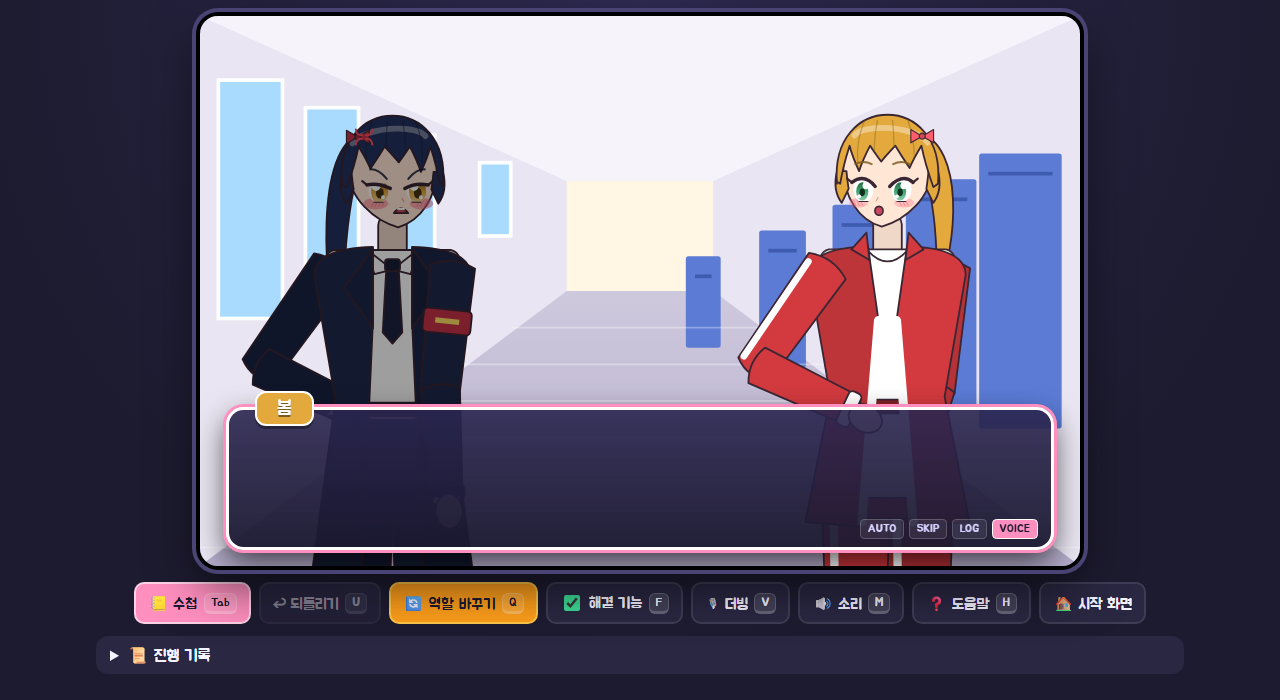
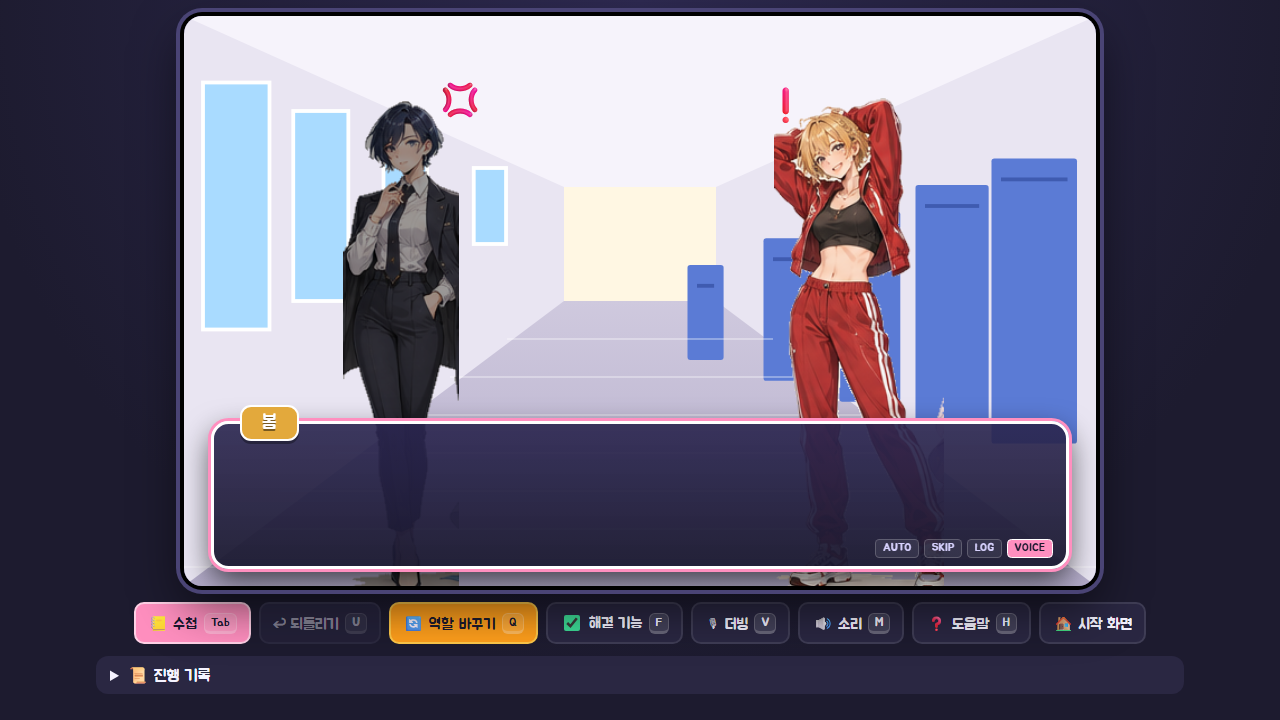
캐릭터를 시트 그림으로 교체
- tools/cut_sprites.py: 캐릭터 시트에서 10명을 잘라 배경 제거·조각 정리·얼굴/발 위치 기록
- web/static/art/: 캐릭터 그림 10장 + sprites.json
- 그림이 있으면 그림으로, 없으면 코드 그림으로 그림 (지도·장면·초상화 모두)
- 미연시 장면: 전신 표시, 감정 아이콘(💢❗♪💧💦💗), 말할 때 들썩임
- 시작·엔딩의 큰 초상화는 상반신까지 넓게 잘라 선명하게

Changed region(s): [[0.0938, 0.0, 0.9062, 0.9], [0.0938, 0.93, 0.1562, 0.96]]

diff --git a/web/static/anime.js b/web/static/anime.js
@@ -150,7 +150,7 @@ const LEGWEAR = {
 //   o.blink : 눈 감는 순간인지,  o.talk : 입 벌림 (립싱크),  o.sway : 서 있을 때 머리 흔들림
 //   o.ol    : 외곽선 두께
 // =============================================================
-function drawFigure(c, L, o = {}) {
+function drawFigureCode(c, L, o = {}) {
   const ol = o.ol ?? 1;
   const M = bodyMetrics(L);
   const swing = o.moving ? Math.sin(o.walk || 0) : 0;
@@ -822,7 +822,7 @@ function drawMouth(c, x, y, expr, ol, talk = 0) {
 // 초상화 : 캔버스 하나에 캐릭터의 얼굴과 어깨를 크게 그린다
 // extra : 립싱크(talk)·눈 깜빡임(blink) 같은 추가 옵션
 // =============================================================
-function drawPortrait(canvas, look, expr = "normal", extra = {}) {
+function drawPortraitCode(canvas, look, expr = "normal", extra = {}) {
   const dpr = Math.min(2, window.devicePixelRatio || 1);
   const size = canvas.clientWidth || 160;
   const px = Math.round(size * dpr);
@@ -834,4 +834,62 @@ function drawPortrait(canvas, look, expr = "normal", extra = {}) {
   const S = canvas.width / 30;                        // 가로 30칸 분량 (얼굴 + 어깨)
   c.setTransform(S, 0, 0, S, canvas.width / 2, canvas.width * 0.5 - (M.headCY + 3) * S);
   drawFigure(c, look, { expr, ol: (1.3 * dpr) / S, ...extra });
+}
+
+
+// =============================================================
+// 그림 파일 캐릭터 (static/art/*.png)
+// -------------------------------------------------------------
+// tools/cut_sprites.py 로 캐릭터 시트에서 잘라 낸 그림이 있으면 그 그림으로 그린다.
+// 그림을 못 불러오면 위의 코드 그림(drawFigureCode)으로 대신 그린다.
+// =============================================================
+const SPRITES = {};                                   // 캐릭터 이름 → { img: 그림, m: 크기 정보 }
+for (const k of Object.keys(LOOKS)) LOOKS[k].key = k;
+
+// 모든 그림을 불러올 때까지 기다리는 약속(Promise). game.js 가 시작할 때 기다린다
+const spritesReady = (async () => {
+  try {
+    const meta = await (await fetch("static/art/sprites.json")).json();
+    await Promise.all(Object.entries(meta).map(([k, m]) => new Promise((resolve) => {
+      const img = new Image();
+      img.onload = () => { SPRITES[k] = { img, m }; resolve(); };
+      img.onerror = resolve;                          // 실패해도 멈추지 않고 코드 그림 사용
+      img.src = `static/art/${k}.png`;
+    })));
+  } catch (e) { /* sprites.json 이 없으면 코드 그림만 사용 */ }
+})();
+
+const hasSprite = (L) => !!(L && L.key && SPRITES[L.key]);
+
+// 발 위치 기준으로 얼굴이 어디쯤 있는지 (몸 좌표). 감정 아이콘 위치에 쓴다
+function spriteHead(L) {
+  const { m } = SPRITES[L.key];
+  const k = L.h / m.h;
+  return { x: (m.headX - m.footX) * k, y: -(m.h - m.headY) * k, r: m.headR * k };
+}
+
+function drawFigure(c, L, o = {}) {
+  if (!hasSprite(L)) return drawFigureCode(c, L, o);
+  const { img, m } = SPRITES[L.key];
+  const k = L.h / m.h;                                // 그림 1픽셀 = 몸 좌표 k 칸
+  c.save();
+  if (o.moving) c.rotate(Math.sin(o.walk || 0) * 0.05);   // 걸을 때 좌우로 뒤뚱뒤뚱
+  c.imageSmoothingQuality = "high";
+  c.drawImage(img, -m.footX * k, -m.h * k, m.w * k, m.h * k);
+  c.restore();
+}
+
+function drawPortrait(canvas, look, expr = "normal", extra = {}) {
+  if (!hasSprite(look)) return drawPortraitCode(canvas, look, expr, extra);
+  const dpr = Math.min(2, window.devicePixelRatio || 1);
+  const px = Math.round((canvas.clientWidth || 160) * dpr);
+  if (canvas.width !== px) { canvas.width = px; canvas.height = px; }
+  const c = canvas.getContext("2d");
+  c.setTransform(1, 0, 0, 1, 0, 0);
+  c.clearRect(0, 0, px, px);
+  const { img, m } = SPRITES[look.key];
+  // 얼굴 + 어깨가 들어오는 정사각형 (원본 픽셀). zoom 을 키우면 상반신까지 넓게 → 큰 칸에서도 덜 깨짐
+  const size = m.headR * 3.4 * (extra.zoom || 1);
+  c.imageSmoothingQuality = "high";
+  c.drawImage(img, m.headX - size / 2, m.headY - m.headR * 1.4, size, size, 0, 0, px, px);
 }

diff --git a/web/static/game.js b/web/static/game.js
@@ -411,6 +411,9 @@ function updateVn(dt) {
   }
 }
 
+// 감정 아이콘 (그림 캐릭터용)
+const MANPU = { angry: "💢", surprised: "❗", happy: "♪", sad: "💧", tired: "💦", blush: "💗" };
+
 // 감정에 따른 몸 동작 : t = 표정이 바뀐 뒤 흐른 시간(초). 돌려주는 값 = 위치 이동과 기울기
 function emotionMotion(expr, t) {
   const fade = (len) => Math.max(0, 1 - t / len);
@@ -449,7 +452,10 @@ function drawVn() {
   const n = vn.stage.length;
   vn.stage.forEach((st, i) => {
     const L = LOOKS[st.key];
-    const S = 8.2;                                    // 모두 같은 배율 → 키 차이가 그대로 보임 (무릎 아래는 화면 밖)
+    const sprite = hasSprite(L);
+    // 그림 캐릭터는 전신이 보이게, 코드 그림은 허리 위로 크게 (모두 같은 배율 → 키 차이가 그대로 보임)
+    const S = sprite ? 5.5 : 8.2;
+    const feetY = sprite ? 612 : 880;
     const targetX = n === 1 ? 480 : i === 0 ? 300 : 660;
     // 처음 등장할 때는 옆에서 미끄러져 들어온다
     st.x = st.x === null ? targetX + (targetX < 480 ? -90 : 90) : st.x + (targetX - st.x) * 0.15;
@@ -464,12 +470,27 @@ function drawVn() {
     vctx.save();
     vctx.globalAlpha = st.alpha;
     if (!speaking && vn.speaker !== "narr") vctx.filter = "brightness(0.62)";   // 말하지 않는 사람은 어둡게
-    vctx.translate(st.x + m.x, 880 + (speaking ? 0 : 8) + m.y);
+    const talkBob = sprite && mouthOn ? -Math.abs(Math.sin(clockTime * 11)) * 3 : 0;   // 그림 캐릭터는 말할 때 살짝 들썩
+    vctx.translate(st.x + m.x, feetY + (speaking ? 0 : 8) + m.y + talkBob);
     vctx.rotate(m.rot);
     vctx.scale(S * (n === 2 && i === 1 ? -1 : 1), S * breath);              // 오른쪽 사람은 왼쪽을 보게
     drawFigure(vctx, L, { expr: st.expr, blink: st.blinkT < 0, ol: 0.24, talk,
                           sway: Math.sin(clockTime * 1.7 + i * 2) * 0.9 });
     vctx.restore();
+    // 그림 캐릭터는 표정이 바뀌지 않으니, 머리 옆에 감정 아이콘(만화 기호)을 띄운다 (화면 좌표에서 그려야 안 뒤집힘)
+    const icon = sprite && MANPU[st.expr];
+    if (icon) {
+      const hd = spriteHead(L);
+      const flip = n === 2 && i === 1 ? -1 : 1;
+      const pop = 1 + Math.max(0, 0.25 - (st.motionT || 0)) * 3;
+      vctx.save();
+      vctx.globalAlpha = st.alpha;
+      vctx.font = `${Math.round(38 * pop)}px sans-serif`;
+      vctx.textAlign = "center";
+      vctx.fillText(icon, st.x + m.x + flip * (hd.x + hd.r * 1.6) * S,
+                    feetY + m.y + (hd.y - hd.r * 0.8) * S + Math.sin(clockTime * 4) * 3);
+      vctx.restore();
+    }
   });
 }
 
@@ -1438,8 +1459,8 @@ function flash() { const f = $("flash"); f.classList.remove("show"); void f.offs
 
 function drawTitleArt() {
   document.querySelectorAll("#title-heroines canvas").forEach((cv) => drawPortrait(cv, LOOKS[cv.dataset.key], "happy"));
-  drawPortrait($("tp-student"), LOOKS.student, "normal");
-  drawPortrait($("tp-future"), LOOKS.future, "happy");
+  drawPortrait($("tp-student"), LOOKS.student, "normal", { zoom: 2.6 });
+  drawPortrait($("tp-future"), LOOKS.future, "happy", { zoom: 2.6 });
 }
 function buildTitle() {
   const box = $("title-heroines");
@@ -1532,7 +1553,7 @@ function showEnding(d, title) {
     .map((h) => `<span style="--c:${LOOKS[h].hairColor}">${STORY.heroines[h].short} 💗${d.aff[h]}</span>`).join("");
   $("ending-collect").textContent = endingSummary();
   $("ending").classList.remove("hidden");
-  drawPortrait($("ep-face"), LOOKS[hero], "happy");
+  drawPortrait($("ep-face"), LOOKS[hero], "happy", { zoom: 2 });
   confetti();
   SFX.end();
 }
@@ -1591,6 +1612,7 @@ function loop(now) {
     $("title-loading").textContent = "대본 파일을 불러오지 못했어요.";
     return;
   }
+  await spritesReady;                                 // 캐릭터 그림 파일을 다 불러올 때까지 기다림
   if (window.LOCAL_API) window.LOCAL_API.init(STORY.heroines);
   await api("/api/state");
   if (!server) return;

diff --git a/tools/cut_sprites.py b/tools/cut_sprites.py
@@ -1,0 +1,172 @@
+# =============================================================
+# cut_sprites.py - 캐릭터 시트 그림을 한 명씩 잘라 게임용 그림(png)으로 만든다
+# -------------------------------------------------------------
+# 실행 :  python tools/cut_sprites.py <시트 그림 경로>
+# 결과 :  web/static/art/<캐릭터>.png  (배경이 투명한 그림)
+#         web/static/art/sprites.json  (발 위치·얼굴 위치 정보 → 게임이 크기를 맞출 때 사용)
+#
+# 하는 일
+#   1. 그림 가장자리에서부터 "배경색과 비슷한 색"을 따라가며 투명하게 만든다 (flood fill)
+#      → 캐릭터 안쪽의 흰 옷은 테두리 선에 막혀서 지워지지 않는다
+#   2. 캐릭터 번호 칸마다 잘라 낸다
+#   3. 칸 가운데를 지나지 않는 조각(옆 캐릭터의 소매 등)은 지운다
+# 필요한 것 : Pillow  (python -m pip install pillow)
+# =============================================================
+
+import json
+import sys
+from collections import deque
+from pathlib import Path
+
+from PIL import Image
+
+ROOT = Path(__file__).resolve().parent.parent
+OUT = ROOT / "web" / "static" / "art"
+
+# 시트에서 각 번호 캐릭터의 가운데 x 좌표 (그림 아래 번호 위치)
+TOP_X = [85, 235, 382, 530, 680, 832, 985, 1140, 1290, 1440]      # 01 ~ 10
+BOTTOM_X = [85, 233, 382, 530, 678, 843, 995, 1145, 1283, 1437]   # 11 ~ 20
+TOP_Y, BOTTOM_Y = (0, 458), (490, 972)                            # 번호 글자는 빼고 자름
+
+# 게임 캐릭터 ↔ 시트 번호
+CAST = {
+    "seorin": 1, "hayul": 2, "sion": 3, "bom": 6, "han": 8, "yuri": 9,
+    "student": 14, "doyun": 16, "kim": 17, "future": 18,
+}
+TOL = 42          # 배경색과 이 정도까지 비슷하면 배경으로 봄
+# 옆 캐릭터와 겹치는 칸은 경계를 직접 정함 : 번호 → (왼쪽, 오른쪽)
+SLOT_OVERRIDE = {9: (1216, 1318), 14: (462, 602), 18: (1080, 1222), 8: (1068, 1205)}
+
+
+def slot(num):
+    """번호 → (가운데 x, 왼쪽 경계, 오른쪽 경계, 위, 아래)"""
+    xs, (y0, y1) = (TOP_X, TOP_Y) if num <= 10 else (BOTTOM_X, BOTTOM_Y)
+    i = (num - 1) % 10
+    left = 0 if i == 0 else (xs[i - 1] + xs[i]) // 2
+    right = 1536 if i == 9 else (xs[i] + xs[i + 1]) // 2
+    left, right = SLOT_OVERRIDE.get(num, (left, right))
+    return xs[i], left, right, y0, y1
+
+
+def background_mask(img, bg):
+    """가장자리에서부터 배경과 비슷한 색을 따라가며 True(배경) 표시"""
+    w, h = img.size
+    px = img.load()
+    near = lambda p: abs(p[0] - bg[0]) + abs(p[1] - bg[1]) + abs(p[2] - bg[2]) <= TOL
+    mask = [[False] * w for _ in range(h)]
+    q = deque()
+    for x in range(w):
+        q.append((x, 0)); q.append((x, h - 1))
+    for y in range(h):
+        q.append((0, y)); q.append((w - 1, y))
+    # 캐릭터 사이 빈칸(번호 줄)과 캐릭터 사이 세로줄에서도 시작
+    for x in range(w):
+        q.append((x, 470)); q.append((x, 980))
+    for xs in (TOP_X, BOTTOM_X):
+        for i in range(9):
+            for y in range(h):
+                q.append(((xs[i] + xs[i + 1]) // 2, y))
+    while q:
+        x, y = q.popleft()
+        if not (0 <= x < w and 0 <= y < h) or mask[y][x] or not near(px[x, y]):
+            continue
+        mask[y][x] = True
+        q.extend(((x + 1, y), (x - 1, y), (x, y + 1), (x, y - 1)))
+    return mask
+
+
+def cut(img, mask, num):
+    cx, left, right, y0, y1 = slot(num)
+    w, h = right - left, y1 - y0
+    src = img.load()
+    out = Image.new("RGBA", (w, h), (0, 0, 0, 0))
+    o = out.load()
+    solid = [[False] * w for _ in range(h)]
+    for y in range(h):
+        for x in range(w):
+            if not mask[y + y0][x + left]:
+                r, g, b = src[x + left, y + y0]
+                o[x, y] = (r, g, b, 255)
+                solid[y][x] = True
+
+    # 칸 가운데 세로 띠를 지나는 덩어리만 남김 (옆 캐릭터 조각 제거)
+    keep = [[False] * w for _ in range(h)]
+    band = range(max(0, cx - left - 22), min(w, cx - left + 22))
+    q = deque((x, y) for y in range(h) for x in band if solid[y][x])
+    while q:
+        x, y = q.popleft()
+        if not (0 <= x < w and 0 <= y < h) or keep[y][x] or not solid[y][x]:
+            continue
+        keep[y][x] = True
+        q.extend(((x + 1, y), (x - 1, y), (x, y + 1), (x, y - 1)))
+    for y in range(h):
+        for x in range(w):
+            if solid[y][x] and not keep[y][x]:
+                o[x, y] = (0, 0, 0, 0)
+            elif keep[y][x]:
+                # 배경과 닿은 가장자리는 살짝 투명하게 → 테두리가 부드럽게
+                edge = any(0 <= x + dx < w and 0 <= y + dy < h and not keep[y + dy][x + dx]
+                           for dx, dy in ((1, 0), (-1, 0), (0, 1), (0, -1)))
+                if edge:
+                    r, g, b, _ = o[x, y]
+                    o[x, y] = (r, g, b, 170)
+
+    # 다리 사이처럼 바깥과 막혀 있는 배경 조각 지우기 (아래쪽 절반에서, 배경색과 아주 비슷한 덩어리만)
+    bg = img.getpixel((5, 5))
+    close = lambda p: abs(p[0] - bg[0]) + abs(p[1] - bg[1]) + abs(p[2] - bg[2]) <= 26
+    seen = [[False] * w for _ in range(h)]
+    for sy in range(h // 2, h):
+        for sx in range(w):
+            if seen[sy][sx] or o[sx, sy][3] == 0 or not close(o[sx, sy]):
+                continue
+            blob, q = [], deque([(sx, sy)])
+            while q:
+                x, y = q.popleft()
+                if not (0 <= x < w and h // 3 <= y < h) or seen[y][x] or o[x, y][3] == 0 or not close(o[x, y]):
+                    continue
+                seen[y][x] = True
+                blob.append((x, y))
+                q.extend(((x + 1, y), (x - 1, y), (x, y + 1), (x, y - 1)))
+            if len(blob) > 40:
+                for x, y in blob:
+                    o[x, y] = (0, 0, 0, 0)
+
+    box = out.getbbox()
+    sprite = out.crop(box)
+    sw, sh = sprite.size
+    a = sprite.load()
+    # 발 위치 : 맨 아래 4% 줄의 불투명한 점들의 가운데
+    feet = [x for y in range(int(sh * 0.96), sh) for x in range(sw) if a[x, y][3] > 200]
+    # 얼굴 위치 : 위에서 5~11% 줄의 불투명한 점들의 가운데 (머리)
+    head = [x for y in range(int(sh * 0.05), int(sh * 0.11)) for x in range(sw) if a[x, y][3] > 200]
+    meta = {
+        "w": sw, "h": sh,
+        "footX": round(sum(feet) / len(feet), 1) if feet else sw / 2,
+        "headX": round(sum(head) / len(head), 1) if head else sw / 2,
+        "headY": round(sh * 0.085, 1),      # 얼굴 가운데 높이 (위에서)
+        "headR": round(sh * 0.07, 1),       # 얼굴 크기 (반지름 정도)
+    }
+    return sprite, meta
+
+
+def main():
+    if len(sys.argv) < 2:
+        print("사용법 : python tools/cut_sprites.py <시트 그림 경로>")
+        return
+    img = Image.open(sys.argv[1]).convert("RGB")
+    bg = img.getpixel((5, 5))
+    print("배경색", bg, "→ 배경 찾는 중…")
+    mask = background_mask(img, bg)
+    OUT.mkdir(parents=True, exist_ok=True)
+    metas = {}
+    for key, num in CAST.items():
+        sprite, meta = cut(img, mask, num)
+        sprite.save(OUT / f"{key}.png")
+        metas[key] = meta
+        print(f"  {num:02d} → {key}.png  {meta['w']}×{meta['h']}")
+    (OUT / "sprites.json").write_text(json.dumps(metas, ensure_ascii=False, indent=1), encoding="utf-8")
+    print("✅ 완료 :", OUT)
+
+
+if __name__ == "__main__":
+    main()
